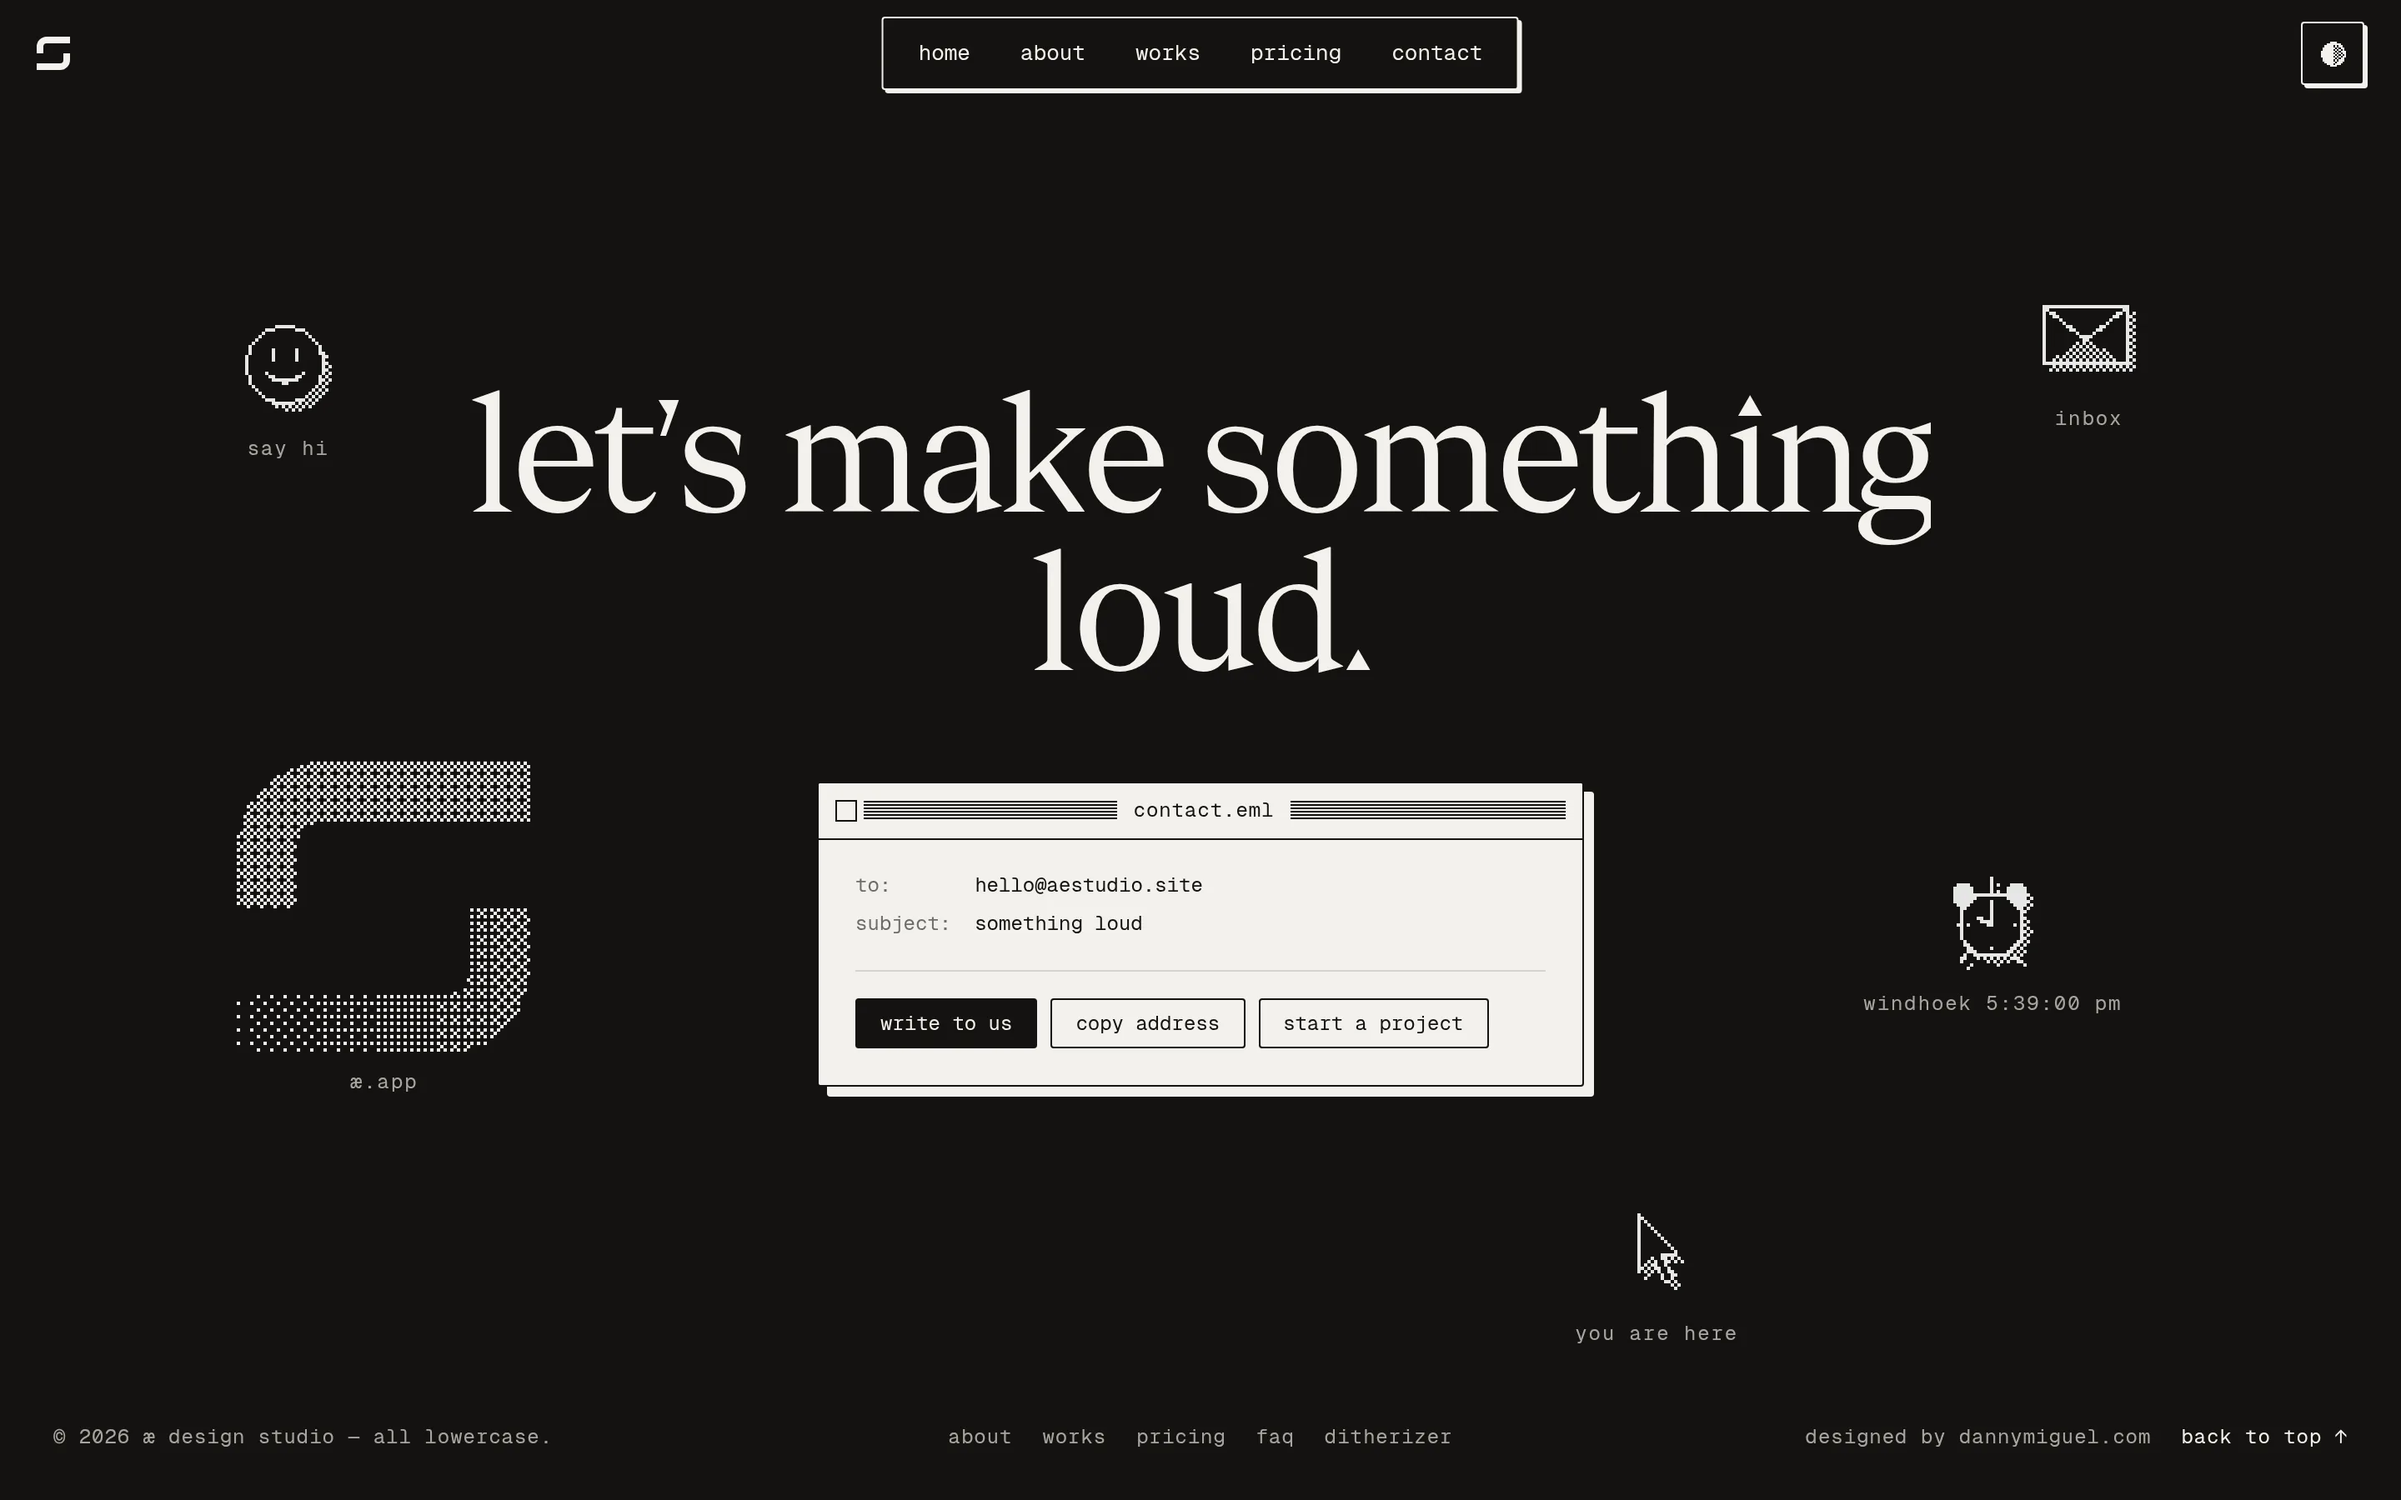
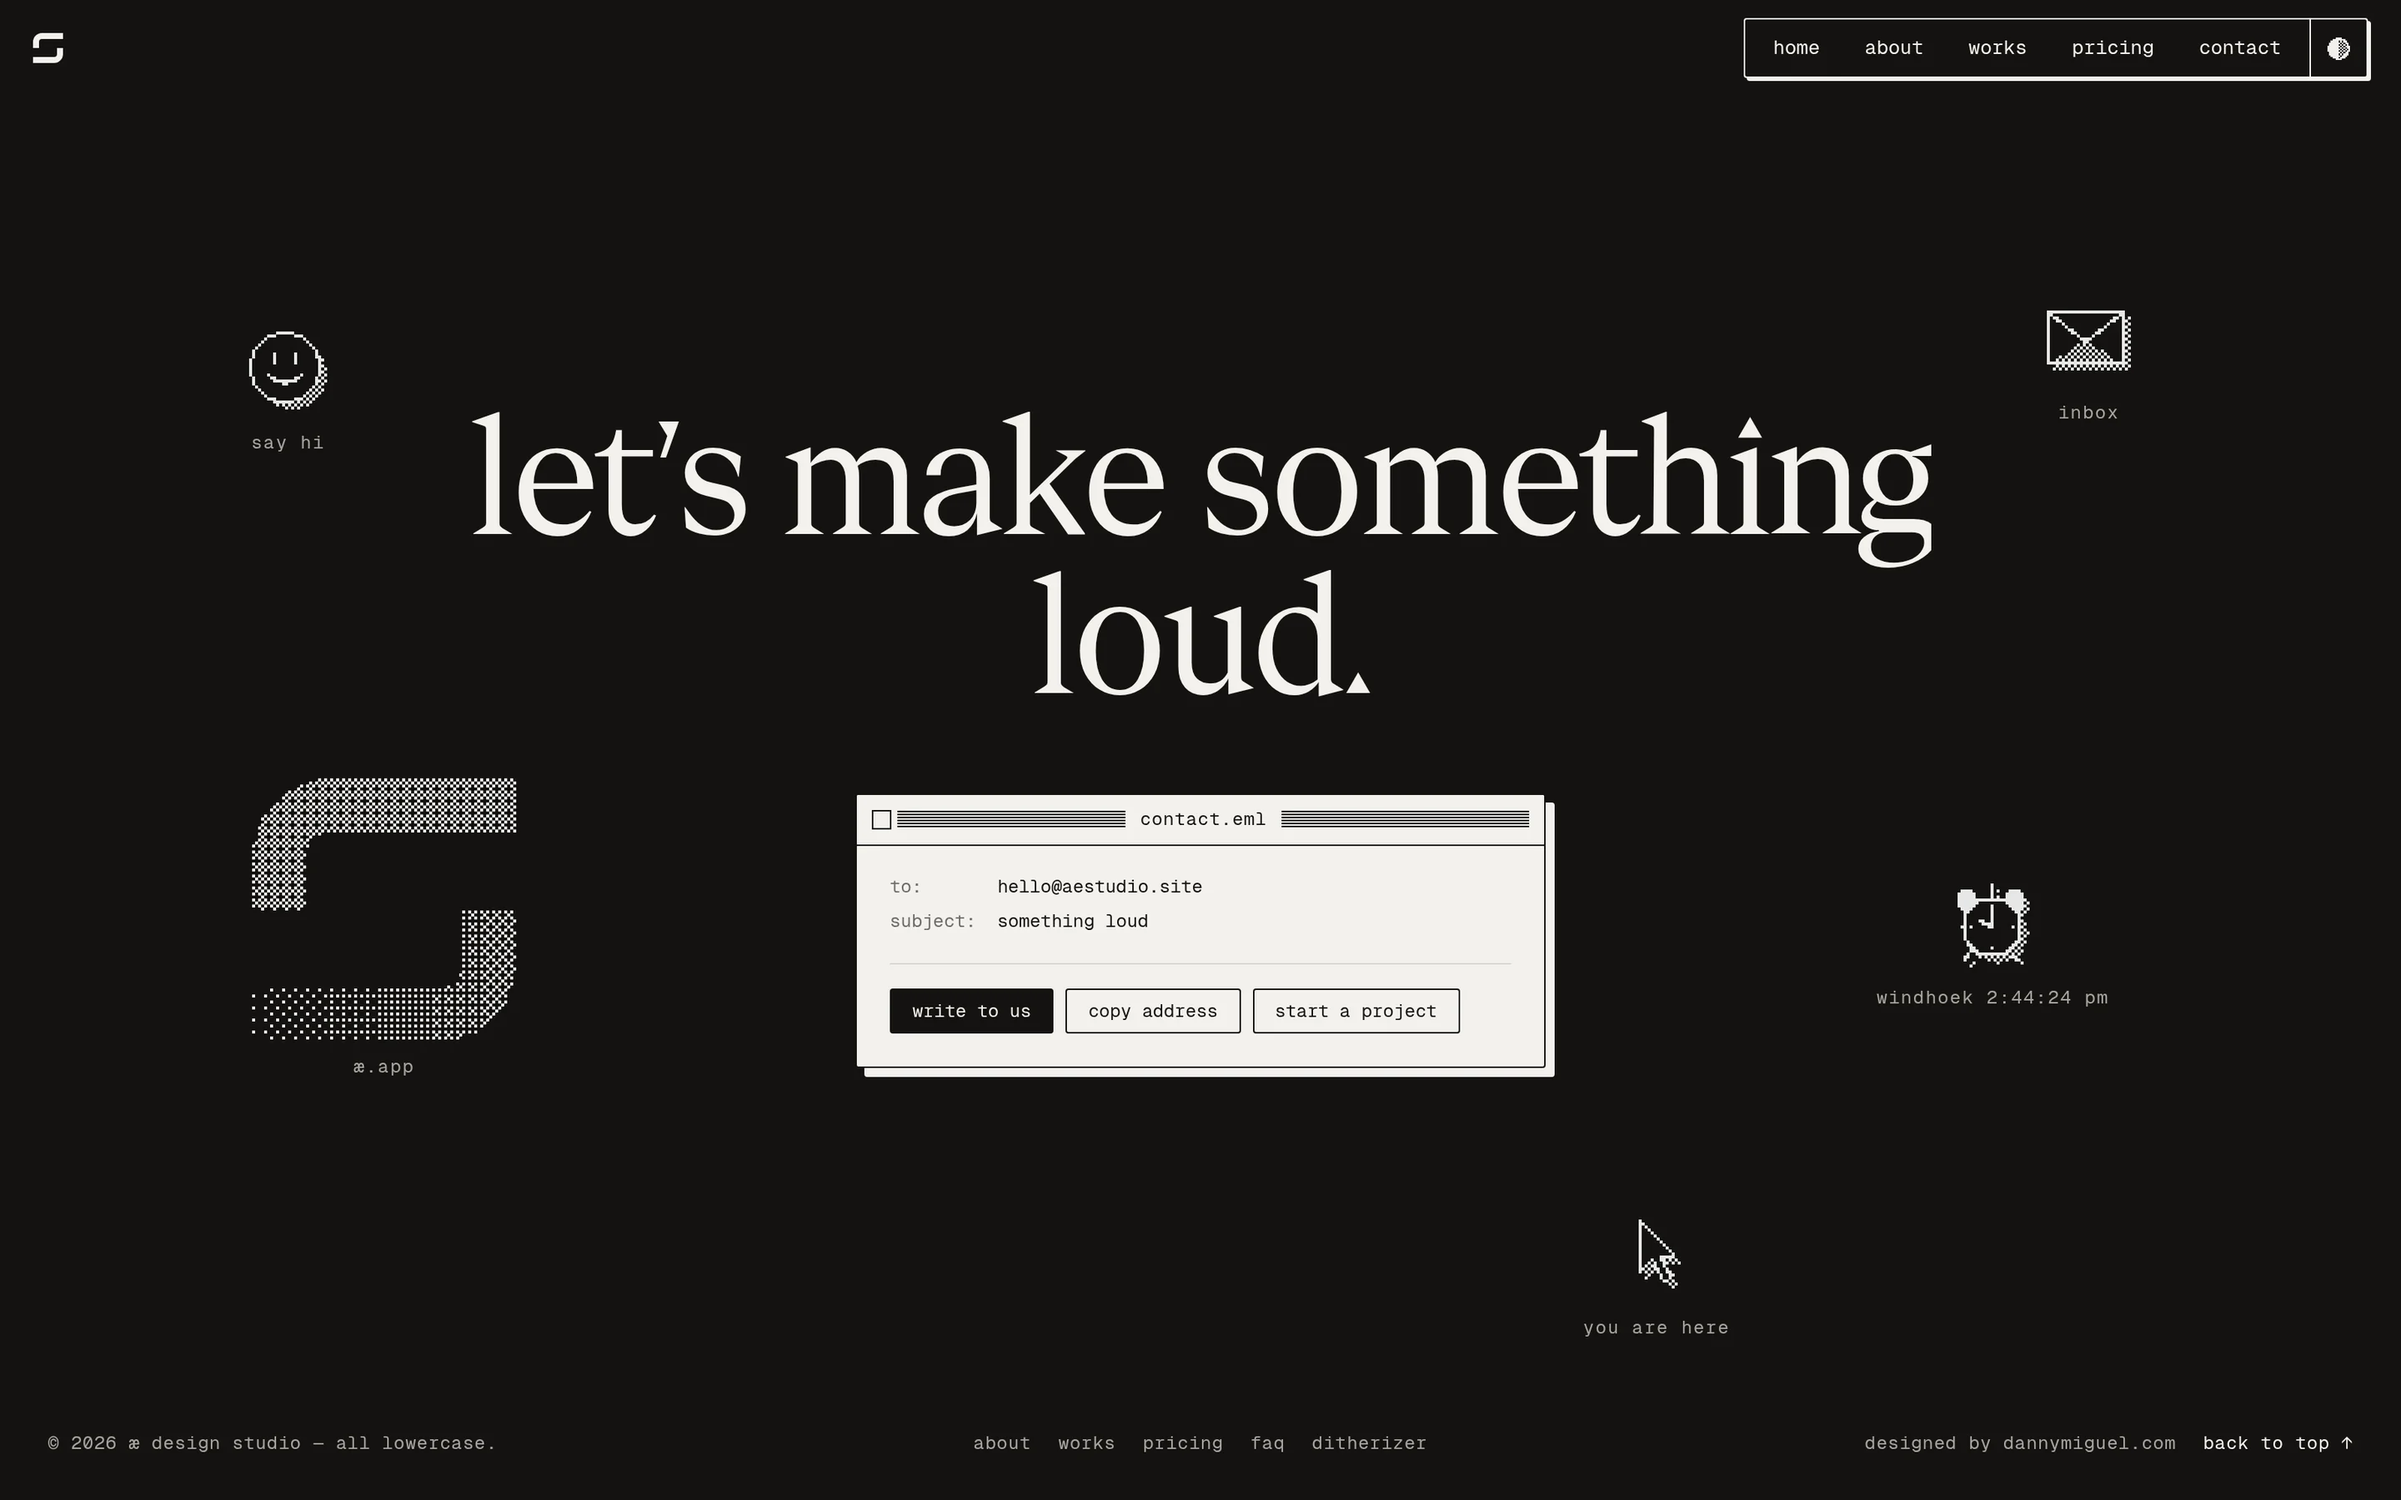
smooth scroll everywhere (lenis); new æ design studio screenshots
lenis on every page for wheel and trackpad: the page glides to a stop
instead of jumping a notch at a time. touch keeps its native scroll. off
under reduced motion, in boring mode, and on the timeline (which pages one
year per scroll by itself and marks <html> with .tl-html). scrolls started
from code go through lib/scroll.ts so they don't fight it.

the æ entry's home and contact screens are retaken from the new site.

Claude-Session: https://claude.ai/code/session_01D1k1HbyCNdLdopUuVAcSuC

diff --git a/components/smooth-scroll.tsx b/components/smooth-scroll.tsx
@@ -1,0 +1,51 @@
+"use client"
+
+import Lenis from "lenis"
+import { useEffect } from "react"
+import { setLenis } from "@/lib/scroll"
+
+// Smooth wheel and trackpad scrolling everywhere (Lenis): the page glides to
+// a stop instead of jumping a notch at a time. Touch screens keep their
+// native scroll (it already has momentum). Off under reduced motion, in
+// boring mode, and on the timeline, which pages one year per scroll by
+// itself (it marks <html> with .tl-html while it's mounted).
+export function SmoothScroll() {
+  useEffect(() => {
+    const root = document.documentElement
+    const still = window.matchMedia("(prefers-reduced-motion: reduce)")
+    let lenis: Lenis | null = null
+
+    const sync = () => {
+      const want =
+        !still.matches && !root.classList.contains("boring") && !root.classList.contains("tl-html")
+      if (want && !lenis) {
+        lenis = new Lenis({
+          autoRaf: true,
+          lerp: 0.1,
+          anchors: true,
+          allowNestedScroll: true,
+          prevent: (node) => node.nodeName === "IFRAME" || !!node.closest?.("[data-lenis-prevent]"),
+        })
+        setLenis(lenis)
+      } else if (!want && lenis) {
+        lenis.destroy()
+        lenis = null
+        setLenis(null)
+      }
+    }
+
+    sync()
+    // the timeline and the boring toggle both flip classes on <html>
+    const mo = new MutationObserver(sync)
+    mo.observe(root, { attributes: true, attributeFilter: ["class"] })
+    still.addEventListener("change", sync)
+    return () => {
+      mo.disconnect()
+      still.removeEventListener("change", sync)
+      lenis?.destroy()
+      setLenis(null)
+    }
+  }, [])
+
+  return null
+}

diff --git a/components/library/library-index.tsx b/components/library/library-index.tsx
@@ -10,6 +10,7 @@ import { libraryTopics, type TopicId } from "@/content/library-topics"
 import { SORTS, filterEntries, groupEntries, parseQuery, setToken } from "@/lib/library-query"
 import type { LibraryEntry } from "@/lib/library-types"
 import { cn } from "@/lib/utils"
+import { scrollPage } from "@/lib/scroll"
 
 const SORT_LABELS = { "a-z": "a–z", date: "date", length: "length", topic: "topic" } as const
 
@@ -53,7 +54,7 @@ export function LibraryIndex({ entries, now }: { entries: LibraryEntry[]; now: s
   // A ledger glyph opens its entry, clearing a filter that would hide it.
   const selectFromLedger = (entry: LibraryEntry) => {
     flushSync(() => setUrl({ open: entry.callNumber, ...(matches.has(entry.slug) ? {} : { query: "" }) }))
-    document.getElementById(entry.callNumber)?.scrollIntoView({ behavior: "smooth", block: "start" })
+    scrollPage(document.getElementById(entry.callNumber))
   }
 
   const toggleTopic = (topic: TopicId) =>

diff --git a/lib/scroll.ts b/lib/scroll.ts
@@ -1,0 +1,22 @@
+import type Lenis from "lenis"
+
+// The page's scroll, whoever runs it: Lenis when it's on (SmoothScroll
+// registers itself here), the browser otherwise. Code that moves the page
+// goes through scrollPage, so a native smooth scroll never fights Lenis.
+let active: Lenis | null = null
+
+export const setLenis = (l: Lenis | null) => {
+  active = l
+}
+
+export function scrollPage(target: number | HTMLElement | null | undefined, offset = 0) {
+  if (target == null) return
+  const still = window.matchMedia("(prefers-reduced-motion: reduce)").matches
+  if (active) {
+    active.scrollTo(target, { offset, immediate: still })
+    return
+  }
+  const behavior: ScrollBehavior = still ? "auto" : "smooth"
+  if (typeof target === "number") window.scrollTo({ top: target + offset, behavior })
+  else target.scrollIntoView({ behavior, block: "start" })
+}

diff --git a/app/[lang]/layout.tsx b/app/[lang]/layout.tsx
@@ -9,6 +9,7 @@ import { BORING_SCRIPT } from "@/lib/boring-store"
 import { CustomCursor } from "@/components/custom-cursor"
 import { LanguageProvider } from "@/components/language-provider"
 import { ScrollReveal } from "@/components/scroll-reveal"
+import { SmoothScroll } from "@/components/smooth-scroll"
 import { ThemeColorSync } from "@/components/theme-color-sync"
 import { ThemeProvider } from "@/components/theme-provider"
 import { fontVariables } from "@/lib/fonts"
@@ -95,6 +96,7 @@ export default async function RootLayout({ children, params }: LayoutProps<"/[la
             <BoringClassSync />
             {children}
             <ScrollReveal />
+            <SmoothScroll />
           </ThemeProvider>
           <Analytics />
           <SpeedInsights />

diff --git a/app/library/layout.tsx b/app/library/layout.tsx
@@ -7,6 +7,7 @@ import { BoringClassSync } from "@/components/boring-toggle"
 import { BORING_SCRIPT } from "@/lib/boring-store"
 import { CustomCursor } from "@/components/custom-cursor"
 import { ScrollReveal } from "@/components/scroll-reveal"
+import { SmoothScroll } from "@/components/smooth-scroll"
 import { ThemeColorSync } from "@/components/theme-color-sync"
 import { ThemeProvider } from "@/components/theme-provider"
 import { libraryCopy } from "@/content/library-topics"
@@ -78,6 +79,7 @@ export default function LibraryLayout({ children }: { children: React.ReactNode 
           <BoringClassSync />
           {children}
           <ScrollReveal />
+          <SmoothScroll />
         </ThemeProvider>
         <Analytics />
         <SpeedInsights />

diff --git a/app/globals.css b/app/globals.css
@@ -544,3 +544,23 @@ html.paused .handwritten path {
     stroke-dashoffset: 0;
   }
 }
+
+/* smooth scroll (components/smooth-scroll.tsx, lenis). lenis moves the page
+   itself every frame; the native smooth behaviour (.scroll-smooth on <html>)
+   would animate each of those moves again, so it's off while lenis runs */
+html.lenis,
+html.lenis body {
+  height: auto;
+}
+html.lenis {
+  scroll-behavior: auto !important;
+}
+.lenis.lenis-smooth iframe {
+  pointer-events: none;
+}
+.lenis.lenis-stopped {
+  overflow: clip;
+}
+.lenis [data-lenis-prevent] {
+  overscroll-behavior: contain;
+}
